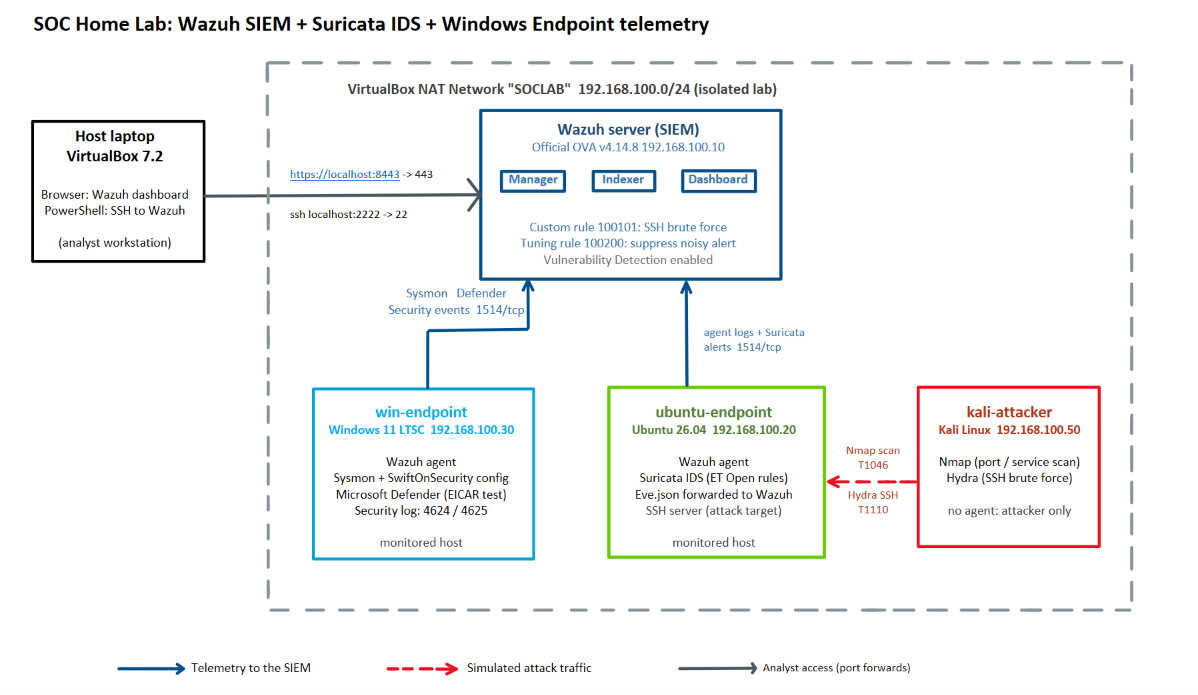
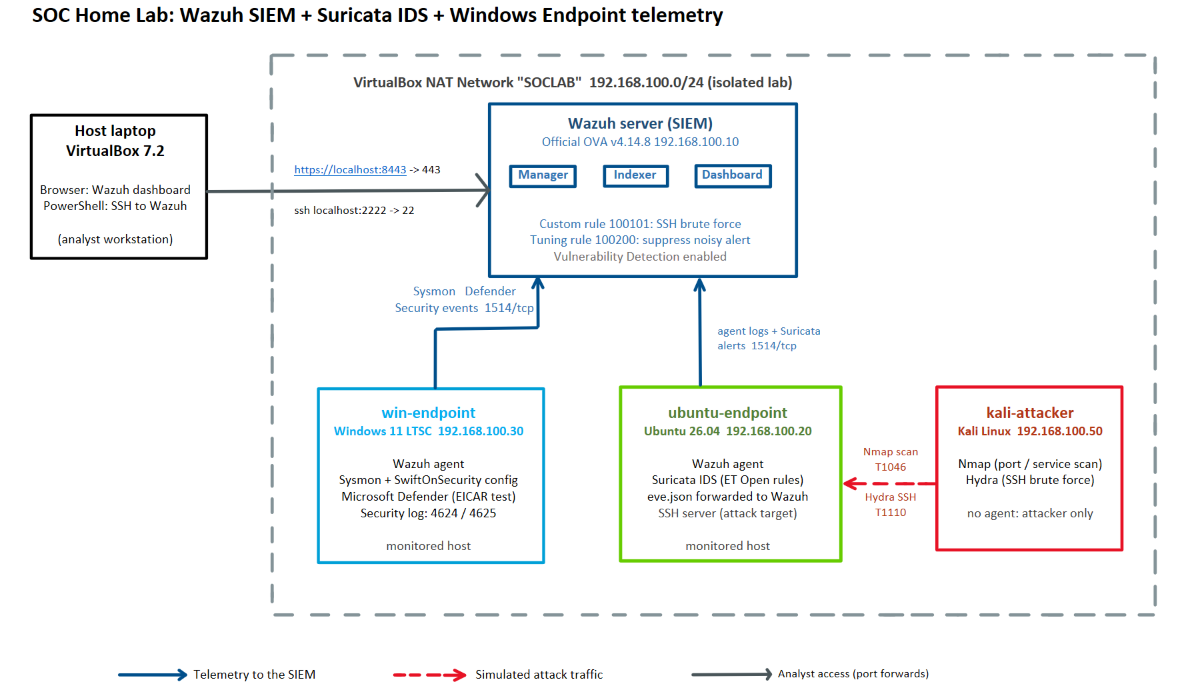
Add vulnerability scan, Windows telemetry and README

diff --git a/README.md b/README.md
@@ -1,0 +1,115 @@
+# SOC Home Lab: Wazuh SIEM, Suricata IDS and Windows Endpoint Monitoring
+
+An isolated virtual lab I built to practice Level 1 SOC work: collecting network and endpoint telemetry, detecting simulated attacks, triaging alerts, tuning noisy detections, and checking hosts for known vulnerabilities.
+
+**Tools:** Wazuh 4.14 (SIEM, EDR agent, vulnerability detection), Suricata 8 (IDS), Sysmon, Microsoft Defender, Nmap, Hydra, MITRE ATT&CK, VirtualBox.
+
+## Architecture
+
+![Lab architecture](01-architecture/01-architecture.png)
+
+| VM | Role | IP |
+|---|---|---|
+| Wazuh server (official OVA, v4.14.8) | SIEM: manager, indexer, dashboard | 192.168.100.10 |
+| ubuntu-endpoint (Ubuntu 26.04) | Monitored host: Wazuh agent + Suricata IDS | 192.168.100.20 |
+| win-endpoint (Windows 11 IoT Enterprise LTSC 2024, evaluation) | Monitored host: Wazuh agent + Sysmon + Defender | 192.168.100.30 |
+| kali-attacker (Kali Linux) | Attacker: Nmap, Hydra | 192.168.100.50 |
+
+All VMs sit on an isolated VirtualBox NAT network (`192.168.100.0/24`). I reach the dashboard from my laptop through a port forward (8443 to 443) and SSH to the Wazuh server through another (2222 to 22).
+
+The laptop has about 13.7 GB of usable RAM, so I ran the lab in two phases: Wazuh + Ubuntu + Kali for the network attacks, then Wazuh + Windows for the endpoint work.
+
+## What I did
+
+1. Built the network and VMs and confirmed connectivity between them.
+2. Deployed the Wazuh server and enrolled the Ubuntu and Windows agents (both Active on v4.14.8).
+3. Installed Suricata (Emerging Threats Open rules) and forwarded its `eve.json` alerts to Wazuh.
+4. Installed Sysmon (SwiftOnSecurity config) on Windows and forwarded the Sysmon and Defender channels to Wazuh.
+5. Ran simulated attacks, investigated the alerts in the dashboard, and mapped them to MITRE ATT&CK.
+6. Wrote a custom detection rule and a tuning rule, and measured the effect of the tuning.
+7. Reviewed the vulnerability findings for the Ubuntu endpoint.
+
+## Results
+
+| Test | How | Detection | Result | Evidence |
+|---|---|---|---|---|
+| Service scan (T1046) | `nmap -sS -sV -p 1-1000 --script http-title` from Kali | Suricata `ET SCAN Possible Nmap User-Agent Observed` (Wazuh rule 86601, level 3) | Detected, via the NSE user-agent | `03-attacks/07a-*` |
+| SSH brute force (T1110) | `hydra`, 12 passwords | Wazuh rules 5763 (level 10) and 40112 (level 12), plus my custom rule 100101 (level 12) | Detected | `03-attacks/07b-*` |
+| Failed Windows logons | 6 wrong passwords at the lock screen | Event 4625, rule 60122 (level 5), tagged T1531 by Wazuh | Detected. These were local logons, not a remote attack, and the multiple-failures correlation rule did not trigger at 6 attempts. | `07-windows/07c-*` |
+| Successful Windows logon | Correct password after the failures | Event 4624, rule 60118 (level 3) | Detected | `07-windows/07c-*` |
+| Antivirus test | EICAR test file downloaded on Windows | Defender event 1116, Wazuh rule 62123 (level 12). Defender quarantined the file. | Detected | `07-windows/07d-*` |
+| Endpoint telemetry | Normal activity plus PowerShell commands | Sysmon events (process creation, file creation) in Wazuh, for example rules 92205, 92213 and 92217 | Collected | `07-windows/04-*` |
+
+MITRE view: `04-detections/08-mitre-dashboard.png`
+
+## Case study 1: SSH brute force
+
+- **Source:** 192.168.100.50, **target:** ubuntu-endpoint, **account:** `testuser`
+- Hydra made 11 failed logins in about 12 seconds, then logged in successfully with the same account.
+- Wazuh's correlation rule 40112 ("Multiple authentication failures followed by a success", level 12, T1110 and T1078) fired on that successful login. That is what turns noisy failures into a probable compromise (`04-detections/08-mitre-events.png`).
+- That one attempt produced about 25 alerts across four rule families (sshd, PAM, unix_chkpwd, syslog), which shows why alerts need correlating and tuning.
+- **Verdict:** true positive, probable credential compromise.
+- **Escalation to L2:** source IP, account name, timestamps of the failures and the success; recommend a password reset, checking the account's activity after login, and isolating the source host.
+
+## Case study 2: Sysmon alerts that were false positives
+
+Two Sysmon alerts looked serious at first:
+
+| Rule | Level | What it said |
+|---|---|---|
+| 92213 | 15 | Executable file dropped in a folder commonly used by malware |
+| 92205 | 9 | PowerShell process created an executable file in the Windows root folder |
+
+I opened both and checked the process, the user, and the file name. In both cases `powershell.exe` created a `__PSScriptPolicyTest_*.ps1` file, which PowerShell writes itself when it starts and checks its execution policy. Rule 92213 came from my own `labadmin` session (in its `%TEMP%` folder). Rule 92205 came from a SYSTEM-level PowerShell (in `C:\Windows\SystemTemp`) and kept repeating: 63 alerts from the two rules in 7 days, the kind of noise that buries real alerts. Evidence: `07-windows/04a-*`, `04b-*`, `04c-*`.
+
+- **Verdict:** false positive. I verified the user, path, and file name; I did not trace which service launched the SYSTEM-level PowerShell.
+- **Recommendation for L2:** exclude the `__PSScriptPolicyTest_*` file name pattern from rules 92213 and 92205, so real droppers stay visible.
+
+## Custom detection rule
+
+`04-detections/local_rules.xml`, rule `100101`: fires when one source IP causes 6 or more failed SSH logins within 30 seconds (level 12, T1110). Wazuh's built-in brute-force rule waits for 8 failures in 120 seconds, so the custom rule alerts sooner and at a higher severity. In `wazuh-logtest` a single failed-login line only reaches the parent rule 5760 (level 5), because 100101 is a frequency rule; it fires on live Hydra traffic, as below.
+
+**1. The test:** the same Hydra attack, run again after adding the rule.
+
+![Hydra test command](04-detections/09-custom-rule-test-command.png)
+
+**2. The alert:** rule 100101 fired at level 12 for source 192.168.100.50, tagged T1110.
+
+![Custom rule firing](04-detections/09-custom-rule-fired.png)
+
+**3. The dashboard view:** one level-12 alert from the custom rule.
+
+![Level 12 alert on the dashboard](04-detections/09b-level12-alert.png)
+
+## Tuning a noisy alert
+
+`ET INFO Python SimpleHTTP ServerBanner` fires on benign traffic from the lab's own test web server, next to the real Nmap alerts.
+
+I added a narrow level-0 child rule (100200) that matches only that signature on the Suricata parent rule 86601, then ran the same scan again:
+
+| Alert | Before the rule | After the rule |
+|---|---|---|
+| `ET INFO Python SimpleHTTP ServerBanner` (benign) | 9 | 0 |
+| `ET SCAN Possible Nmap User-Agent Observed` (real detection) | 5 | 5 |
+
+The noisy signature disappeared and the Nmap detection stayed the same. I validated the rule file with `wazuh-analysisd -t` before restarting the manager, and `wazuh-logtest` confirmed the suppression: the sample Suricata alert resolves to rule 100200 at level 0 (`05-tuning/10c-logtest-suppression.png`). **Recommendation for L2:** in production, scope this suppression to the known web server's IP and review it periodically. Evidence: `05-tuning/`
+
+## Vulnerability detection
+
+Wazuh's Vulnerability Detection scanned `ubuntu-endpoint` and reported 152 Critical, 862 High, 95 Medium and 7 Low findings, with 1,394 more still pending evaluation. Almost all of them (2,509 of 2,510) come from one package, the Linux kernel image, so the practical remediation is one kernel update rather than many separate fixes. I treat raw CVE counts with caution: severity, exposure and exploitability decide priority. Evidence: `06-vulnerabilities/`
+
+## Problems I ran into
+
+- **Wazuh installer kept failing:** the all-in-one installer failed on Ubuntu 22.04 and 24.04 VMs. The logs showed CPU stalls and timeouts, and Task Manager showed the host at 93% memory. I switched to Wazuh's pre-built OVA and limited how many VMs run at once.
+- **Agent would not start:** I had placed the Suricata `<localfile>` block outside the `<ossec_config>` tags. Fixed by adding it inside a valid section.
+- **Log decoder errors:** Suricata's periodic `stats` events had too many fields for Wazuh's JSON decoder and flooded `ossec.log`. Turning off Suricata's global stats setting broke Suricata, so I reverted that and disabled only the `stats` entry in the `eve-log` output.
+- **A bad rule edit took down the manager:** a typo in `local_rules.xml` (`fieldname` instead of `field name`) made the Wazuh manager fail to start. The dashboard still loaded, but agents could not connect, so I had a working-looking dashboard and no new data. I restored a known-good file and now run `wazuh-analysisd -t` before restarting the manager.
+- **First EICAR detection never reached Wazuh:** Defender detected and quarantined the file, but the event was lost while the manager was restarting (the manager log showed `Unable to connect to socket 'queue/db/wdb'`). Once the manager was stable, a second test arrived as rule 62123.
+- **Windows commands failed silently:** installing Sysmon and restarting the agent need an elevated PowerShell. I had opened a normal one.
+- **Weak scan detection:** the Nmap SYN scan alone was not flagged by the default rules, and the alert I got was low severity (level 3). A scanner like this would need correlation before escalating.
+
+## Notes
+
+- Everything runs in a closed lab. The weak test account (`testuser`) exists only for the Hydra test, and the Windows VM uses an evaluation licence.
+- The Windows failed-logon test was local only. I did not attack the Windows VM from Kali.
+- Screenshots are in the numbered folders; file names match the table above.
